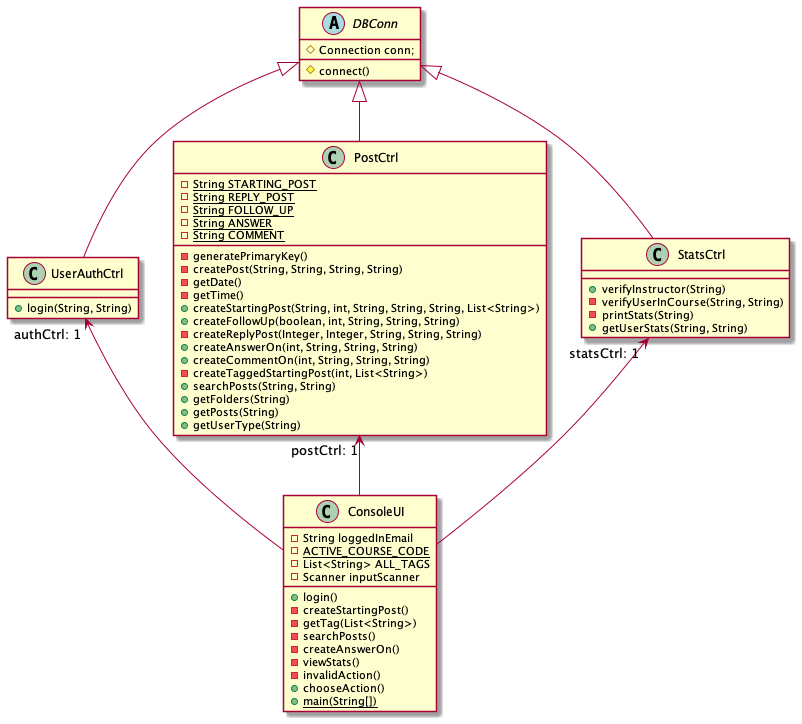
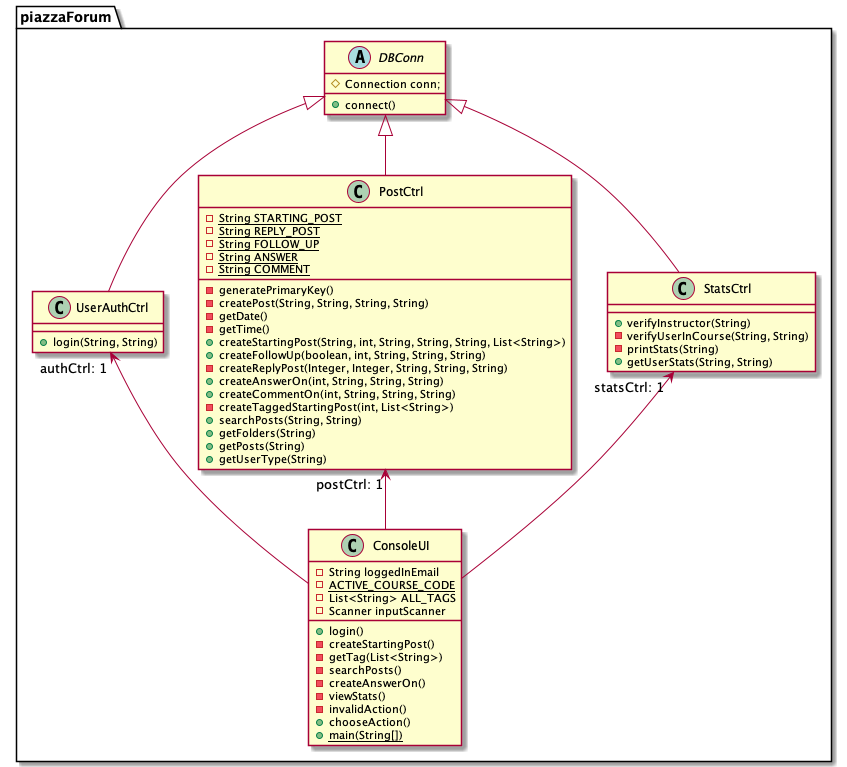
Small changes

Changed region(s): [[0.0, 0.0, 0.9975, 1.0], [0.2805, 0.6989, 0.3117, 0.7293], [0.2494, 0.6685, 0.2805, 0.6989]]

diff --git a/Piazza/src/main/java/piazzaForum/DBConn.java b/Piazza/src/main/java/piazzaForum/DBConn.java
@@ -16,7 +16,7 @@ public abstract class DBConn {
   /**
    * Connects to the database.
    */
-  protected void connect() {
+  public void connect() {
     try {
       Class.forName("com.mysql.cj.jdbc.Driver");
       // Properties for user and password.
